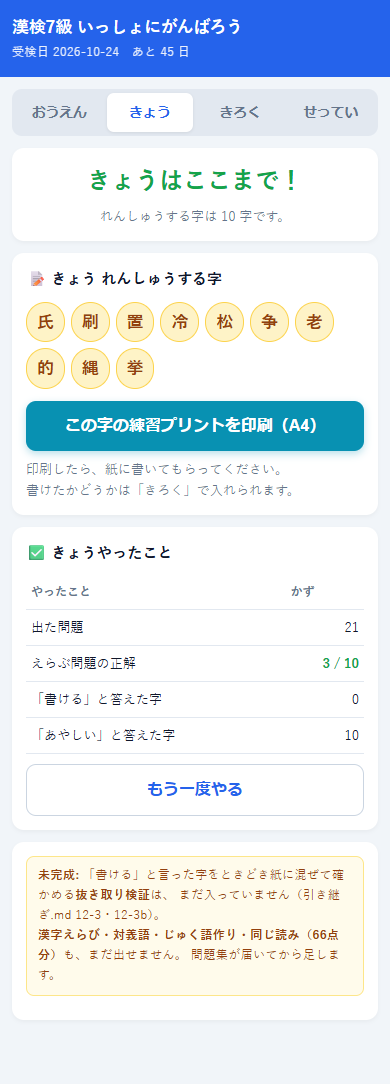
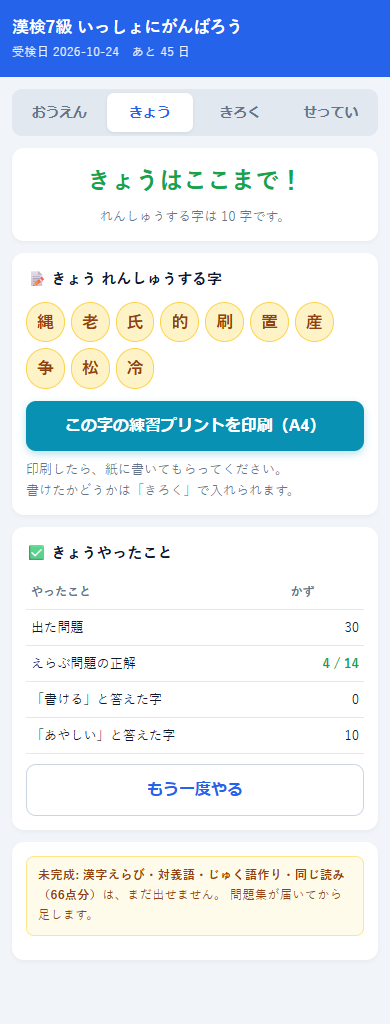
書きと選択式を前後に分け、まぐれ当たり対策と抜き取り検証を実装
- 前半＝選択式・後半＝書き。前半は「まちがい10個」か「20問」の早いほうで終わる
  （固定問題数にすると、できる字をやらせることになるため）
- 切りかえ画面をはさみ、「まちがえた字は、あしたもう一回出るよ」と予告する
- まぐれ当たり対策（引き継ぎ.md 12-1 の ⚠。仕様にあって未実装だった）:
  選択式は run>=2 で初めて「できた」。isOK と pickKanji の両方が見る
- 抜き取り検証（12-3・12-3b）: 「書ける」と申告した字を黙って紙に混ぜる
- 新PCで Edge / Chrome を使えるよう tools/browser.mjs に起動を共通化
- 練習プリントの読みをカッコで囲む（指示文と一致していなかった）

smoke-test 71件・全通過

Claude-Session: https://claude.ai/code/session_01KvmoCuNiHyZhgnSuYiRTRm

diff --git a/index.html b/index.html
@@ -198,9 +198,9 @@
       <div class="card">
         <h2>▶ きょうのぶん</h2>
         <div class="muted" style="margin-bottom:12px">
-          漢字が1つずつ出ます。<br>
-          <b>書けそうなら「書ける」、あやしければ「あやしい」</b>をおしてください。<br>
-          <b>「あやしい」が10こ たまったら、きょうはおしまいです。</b>
+          <b>まえはん</b>は、えらぶ問題です。おしたらすぐ〇✕が出ます。<br>
+          <b>こうはん</b>は、紙に書く分をえらびます。<br>
+          ぜんぶで <b>10分ぐらい</b>です。
         </div>
         <button class="btn" onclick="startSession()">はじめる</button>
         <div class="muted" style="margin-top:10px" id="ky-info"></div>
@@ -218,6 +218,23 @@
         <div class="ky-ask muted" id="ky-ask"></div>
         <div id="ky-choices"></div>
         <div class="ky-fb" id="ky-fb"></div>
+      </div>
+    </div>
+
+    <!-- 前半→後半の切りかえ。★頭の使い方が変わるので、一拍おく -->
+    <div id="ky-switch" style="display:none">
+      <div class="card" style="text-align:center">
+        <div style="font-size:1.3rem;font-weight:800;color:var(--good)">まえはん おわり！</div>
+        <div class="muted" id="ky-swsub" style="margin-top:6px"></div>
+      </div>
+      <div class="card">
+        <h2>✏ ここからは 紙に書く分をえらぶよ</h2>
+        <div class="muted" style="margin-bottom:12px">
+          漢字が1つずつ出ます。<br>
+          <b>書けそうなら「書ける」、あやしければ「あやしい」</b>をおしてください。<br>
+          <b>「あやしい」が10こ たまったら、きょうはおしまいです。</b>
+        </div>
+        <button class="btn" onclick="startWritePhase()">すすむ</button>
       </div>
     </div>
 
@@ -531,7 +548,10 @@ function startSession(force){
     SESSION.unsure=(SESSION.preUnsure||[]).slice();
     SESSION.know=[];        // 「書ける」と言った字
     SESSION.sel={o:0,x:0};  // 選択式の正誤
+    SESSION.phase="select"; // ★前半＝選択式、後半＝書き
     SESSION.done=false;
+    // 前半に出す問題が無ければ、いきなり後半から
+    if(SESSION.firstWrite<=0) SESSION.phase="write";
     save(K_SESSION,SESSION);
     // ★聞かずに入れた字だけで10字に達する日は、もう出す必要がない。
     //   量を増やさないのが 12-2 の設計なので、その場で終わりにする
@@ -547,31 +567,38 @@ function currentItem(){
 
 function renderKyou(){
   var start=document.getElementById("ky-start"), run=document.getElementById("ky-run"),
-      end=document.getElementById("ky-end");
+      end=document.getElementById("ky-end"), sw=document.getElementById("ky-switch");
   var live=SESSION && SESSION.date===todayStr();
+  function only(el){
+    [start,run,end,sw].forEach(function(e){ e.style.display=(e===el?"":"none"); });
+  }
 
   if(!live){
-    start.style.display=""; run.style.display="none"; end.style.display="none";
+    only(start);
     var left=KANJI_MASTER.filter(function(r){return !isOK(r.k);}).length;
     document.getElementById("ky-info").innerHTML=
       "受検日まで <b>あと "+daysLeft()+" 日</b>。まだ確かめていない字が <b>"+left+" 字</b>あります。";
     return;
   }
-  if(SESSION.done){
-    start.style.display="none"; run.style.display="none"; end.style.display="";
-    renderKyouEnd(); return;
-  }
-  start.style.display="none"; run.style.display=""; end.style.display="none";
+  if(SESSION.done){ only(end); renderKyouEnd(); return; }
+  if(SESSION.phase==="switch"){ only(sw); renderKyouSwitch(); return; }
+  only(run);
 
   var q=currentItem();
   if(!q){ finishSession(true); return; }
 
-  // 進み具合。★「あと何個」ではなく「たまった数」を出す（責めない見せ方）
+  // 進み具合。
+  // ★前半は「といた数」を出す。**「まちがえた N/10」とは出さない。**
+  //   まちがいを集める表示になり、責める画面になる（応援が要件）。
+  //   まちがいが10個で切り上がるのは、**早く終わるという形でだけ**表に出る。
+  // ★後半は「たまった数」。「あと何個」とは出さない（同じ理由）
+  var isSel=(SESSION.phase==="select"), s=SESSION.sel||{o:0,x:0};
+  var now  = isSel ? (s.o+s.x)              : SESSION.unsure.length;
+  var goal = isSel ? SESSION.selectLimit    : SESSION.unsureTarget;
   document.getElementById("ky-count").textContent=
-    "あやしい "+SESSION.unsure.length+" / "+SESSION.unsureTarget;
+    (isSel ? "といた " : "あやしい ")+now+" / "+goal;
   var dots="";
-  for(var i=0;i<SESSION.unsureTarget;i++)
-    dots+='<i class="'+(i<SESSION.unsure.length?"on":"")+'"></i>';
+  for(var i=0;i<goal;i++) dots+='<i class="'+(i<now?"on":"")+'"></i>';
   document.getElementById("ky-dots").innerHTML=dots;
 
   document.getElementById("ky-fb").textContent="";
@@ -655,9 +682,29 @@ function answerSelectVal(val){
   setTimeout(function(){ nextItem(false); }, ok?550:1500);
 }
 
+/* ★前半（選択式）の終わり。
+   「まちがえた字が10個」か「20問」か、**早いほう**（kanken-gen.js の SELECT_LIMIT / SELECT_MISS_TARGET）。 */
+function selectPhaseOver(){
+  var s=SESSION.sel||{o:0,x:0};
+  return (s.o+s.x)>=SESSION.selectLimit || s.x>=SESSION.selectMissTarget;
+}
+function toSwitch(){
+  SESSION.phase="switch";
+  SESSION.pos=SESSION.firstWrite;      // 前半を切り上げて、後半の先頭へ飛ぶ
+  save(K_SESSION,SESSION);
+  if(SESSION.pos>=SESSION.items.length){ finishSession(true); return; }
+  renderKyou();
+}
+function startWritePhase(){
+  SESSION.phase="write"; save(K_SESSION,SESSION); renderKyou();
+}
 function nextItem(finish){
   SESSION.pos++;
   if(finish || SESSION.pos>=SESSION.items.length){ finishSession(!finish); return; }
+  // 前半が終わったら、後半に入る前に一拍おく（頭の使い方が変わるため）
+  if(SESSION.phase==="select" && (selectPhaseOver() || SESSION.pos>=SESSION.firstWrite)){
+    toSwitch(); return;
+  }
   save(K_SESSION,SESSION);
   renderKyou();
 }
@@ -677,6 +724,19 @@ function finishSession(ranOut){
     .filter(function(v,i,a){return a.indexOf(v)===i;});
   save(K_SESSION,SESSION); save(K_SET,SET);
   renderAll();
+}
+
+/* 前半→後半の切りかえ画面。
+   ★ここで「まちがえた字は、あしたもう一回出るよ」と予告する。
+     わざと間違えれば前半を10問で終われてしまうが、**まちがえた字は翌日また出る**ので
+     損得が釣り合う（12-3 の抜け道対策と同じ形）。既に pickKanji が拾う実装は入っていて、
+     **見えていなかっただけ**なので、ここで見えるようにする。
+     責める文ではなく**予告**として書くこと。 */
+function renderKyouSwitch(){
+  var s=SESSION.sel||{o:0,x:0};
+  document.getElementById("ky-swsub").innerHTML=
+    "えらぶ問題を <b>"+(s.o+s.x)+" 問</b>やって、<b>"+s.o+" 問</b>せいかいしたよ。"
+    +(s.x ? "<br>まちがえた字は、あしたもう一回出るよ。" : "");
 }
 
 function renderKyouEnd(){

diff --git a/kanken-gen.js b/kanken-gen.js
@@ -310,6 +310,18 @@ function hashCode(s) {
    ========================================================================= */
 var SELECT_FIELDS = ["kakusu", "bushu", "onkun"];
 
+/* ★前半（選択式）の終わり方（2026-09-09 決定）。
+   「まちがえた字が10個」か「20問」か、**早いほう**で終わる。
+
+   ・問題数だけで区切らない … 固定20問にすると **できる字を20問やらせる**ことになる。
+     12-2 で「1日1枚固定」を捨てたのと同じ理由。
+   ・間違いの数だけでも区切れない … 間違いは**押して選べない**ので、
+     できる日はいつまでも終わらない。上限が要る。
+   ・数を後半（あやしい10個）とそろえてある。**子どもが覚えるルールは1つだけ**になる。
+   ・20問の根拠: 1問≒10秒（フィードバック込み）で3〜4分。
+     後半は1問≒5秒で2〜3分。**合わせて10分に収まる。** */
+var SELECT_LIMIT = 20, SELECT_MISS_TARGET = 10;
+
 /* ★選択式（4択）かどうか。まぐれ当たり対策の判定に使う（引き継ぎ.md 12-1 の ⚠）。
    書く形式（kaki・yomi）は当てずっぽうで当たらないので、この扱いをしない。 */
 function isSelectField(f) { return SELECT_FIELDS.indexOf(f) >= 0; }
@@ -344,32 +356,54 @@ function buildSession(opts) {
   writeK.forEach(function (r) { used[r.k] = 1; });
 
   // 選択式の候補。書き取りに使う字は避ける
-  var selItems = [];
+  // ★★この除外は絶対に外さないこと（確認ポイント A-1）。
+  //   練習プリントは **字とその読みを印刷する**（`氏（シ・うじ）`）ので、
+  //   前半で「氏の音読みは？」と聞いた字が後半経由で紙に載ると、
+  //   **答えがそのまま紙に印刷される。**前後に分けたあとも同じ。
+  var selItems = [], byField = [];
   SELECT_FIELDS.forEach(function (f) {
+    var one = [];
     pickKanji(f, kstats, opts.selPool || 30, rnd, opts.grades, used).forEach(function (r) {
       var q = GENERATORS[f](r.k, rnd, used);
-      if (q) { selItems.push(q); used[r.k] = 1; }
+      if (q) { one.push(q); used[r.k] = 1; }
     });
+    byField.push(one);
   });
-  selItems = shuffle(selItems, rnd);
+  // ★形式ごとに順ぐりに取る（1形式に偏らせない）。
+  //   画数10・音訓20・部首20＝50点は規則的で短時間で伸びる（引き継ぎ.md 6章）。
+  //   ここで偏らせると、コスパの高い分野がまるごと育たない日が出る。
+  selItems = roundRobin(byField, rnd).slice(0, opts.selectLimit || SELECT_LIMIT);
 
   var writeItems = [];
   writeK.forEach(function (r) { var q = genKaki(r.k, rnd); if (q) writeItems.push(q); });
 
-  // 書き取りと選択式を交互に。書き取りだけが続くと単調になる
-  var items = [];
-  for (var i = 0; i < Math.max(writeItems.length, selItems.length); i++) {
-    if (writeItems[i]) items.push(writeItems[i]);
-    if (selItems[i]) items.push(selItems[i]);
-  }
+  // ★前半＝選択式、後半＝書き（2026-09-09 の設計変更）。
+  //   もとは交互だったが、次の理由で分けた。
+  //   ・頭の使い方が違う（選択式＝知識で選ぶ／書き＝自分は書けるかの自己評価）
+  //   ・**終わりの基準が書きにしか無く、選択式が「おまけ」になっていた**（120点分あるのに）
+  //   ・選択式はその場で〇✕が出る。**先にすると「今日もできた」で始められる**（ユーザー判断）
+  //   前任が交互にした理由は「書きだけ続くと単調」だが、
+  //   **選択式が速いので前半がテンポよく流れ、単調さは起きない**と判断した。
+  var items = selItems.concat(writeItems);
   items.forEach(function (q, i) { q.no = i + 1; });
 
   return {
     date: opts.dayKey,
     unsureTarget: opts.unsureTarget || 10,
+    selectLimit: opts.selectLimit || SELECT_LIMIT,
+    selectMissTarget: opts.selectMissTarget || SELECT_MISS_TARGET,
+    firstWrite: selItems.length,   // ここから後半（書き）。前半を切り上げたらここへ飛ぶ
     items: items,
-    preUnsure: mustWrite        // 聞かずに最初から「あやしい」に入れる字
+    preUnsure: mustWrite           // 聞かずに最初から「あやしい」に入れる字
   };
+}
+
+/* 形式ごとのリストから順ぐりに1つずつ取る（部首→画数→音訓→部首→…） */
+function roundRobin(lists, rnd) {
+  var out = [], n = 0, i;
+  lists.forEach(function (l) { if (l.length > n) n = l.length; });
+  for (i = 0; i < n; i++) lists.forEach(function (l) { if (l[i]) out.push(l[i]); });
+  return out;
 }
 
 /* ---------- 抜き取り検証（引き継ぎ.md 12-3・12-3b） ----------

diff --git a/作業メモ.md b/作業メモ.md
@@ -550,3 +550,88 @@ playwright はグローバル導入ぶんを自動で探す。パスに日本語
   `SELECT_FIELDS` は画数・部首・音訓の**50点分だけ**。`genYomi` は選択肢を持たない書く形式
 - 同じ字を前半と後半の両方に出さない不変条件は**分割後こそ重要**
   （練習プリントは字と読みを印刷するので、前半の音訓問題の答えが紙に載る）
+
+### ひと区切り④: まぐれ当たり対策（12-1 の ⚠）を実装した ★司令塔が最優先と判断
+
+**仕様に書いてあるのに、実装されていなかった**箇所。
+`isOK()` が「どれか1形式で1回〇なら できた」にしていたため、
+**まぐれ当たりした字が出題から消え、その字の正答率が 1.0 のまま固定**されていた。
+→ ✕ が二度と積まれないので、**予想得点が上振れし続ける。**
+
+| 追加したもの | 中身 |
+|---|---|
+| `KSTATS[字][形式].run` | いま何回続けて正解しているか（正解で+1・まちがいで0）。**追加フィールドなのでid体系は不変**（C-5） |
+| `isSelectField(f)` | 4択かどうか（kakusu・bushu・onkun） |
+| `fieldDone(s,f)` | **選択式は `run>=2` で初めて「できた」。**書く形式は1回でよい |
+| `isOK()` / `pickKanji()` | 両方が `fieldDone` を見る |
+
+**★`estimate()` の式は変えていない。** `o/(o+x)` のまま。
+本番の(三)(五)(八)(十)は**実際に記号選択**なので、まぐれ当たり分は本番でも取れる。
+上振れの原因は式ではなく **「できた字が出題から消えて正答率が更新されなくなること」**だった。
+
+**⚠ 別件が残っている**: 総画数は**本番では数字を書く**が、このアプリは4択。
+**(四)の10点分は実力より高く出る。**未対応。`引き継ぎ.md` 12-1 に書いた。
+
+#### テストの書き方で1つ学んだ
+最初「1回正解しただけの字は、まだ出題される」と書いて**落ちた。**
+642字のほとんどが手つかずなので、**ある1日に必ず出るとは限らない**（出たら偶然）。
+確かめたいのは「**できた字と同じ最後尾に回されていないこと**」だったので、
+**ほかを全部「2回続けて正解ずみ」にして、その字が拾われるか**を見る形に変えた。
+→ **「たぶん出るはず」を条件にしない。**その日のデータで必ず決まる形にする（C-8b）。
+
+### 検証
+`node tools/smoke-test.mjs` … **62件・全通過**（msedge）。`test_gen.js` も全通過。
+`引き継ぎ.md` 12-1 に「長らく未実装だった」経緯と、いまの実装・残った別件を追記。
+
+### ひと区切り⑤: 書きと選択式を前後に分けた（2026-09-09・司令塔経由でユーザー判断）
+
+**前半＝選択式（画面で完結）→ 後半＝書きの判定。** 順番はユーザーが決めた
+（「サクサク進んで**今日もできた**で始められる。ウォームアップになる」）。
+
+#### なぜ分けたか（★消さないこと。知らないと交互に戻す）
+- 頭の使い方が違う（選択式＝知識で選ぶ／書き＝**自分は書けるか**の自己評価）
+- **終わりの基準が書きにしか無く、選択式が「おまけ」になっていた。**200点中120点分あるのに
+- 選択式はその場で〇✕が出る。**先にすると成功体験で始められる**
+- 前任が交互にした理由は「書きだけ続くと単調」だが、**選択式が速いので前半がテンポよく流れる**
+
+#### 前半の終わり方: **「まちがえた字10個」か「20問」か、早いほう**
+- **問題数だけで区切らない** … 固定20問は**できる字を20問やらせる**ことになる（12-2 と同じ理由）
+- **間違いの数だけでも区切れない** … 間違いは**押して選べない**ので、できる日は終わらない
+- **後半の10個と数をそろえた。**子どもが覚えるルールは「10個見つけたら終わり」の1つだけ
+- 20問の根拠: 1問≒10秒で3〜4分／後半は1問≒5秒で2〜3分 → **合わせて10分に収まる**
+
+#### ★画面の見せ方（応援が要件）
+- **前半は「といた 5 / 20」を出す。「まちがえた 5 / 10」とは出さない。**
+  まちがいを集める表示になり、責める画面になる。
+  **まちがいが10個で切り上がるのは「早く終わる」という形でだけ表に出る**
+- **切りかえ画面**（`#ky-switch`）を1枚はさむ。頭の使い方が変わるので一拍おく
+- 切りかえ画面に「**まちがえた字は、あしたもう一回出るよ**」と**予告**する
+  - わざと間違えれば前半を10問で終われるが、**翌日また出る**ので損得が釣り合う
+  - `pickKanji` が拾う実装は**もともと入っていて、見えていなかっただけ**
+
+#### ★A-1 の除外は絶対に外さないこと
+練習プリントは**字とその読みを印刷する**（`氏（シ・うじ）`）ので、
+前半で「氏の音読みは？」と聞いた字が後半経由で紙に載ると、**答えが紙に印刷される。**
+`buildSession` の `used{}` で防いでいる。**テストで固定した**（司令塔の指示）。
+
+#### そのほか
+- 前半は**形式ごとに順ぐり**に取る（`roundRobin`）。1形式に偏らせない
+  （画数10・音訓20・部首20＝50点は短時間で伸びる。引き継ぎ.md 6章）
+- `SESSION.phase` = `select` / `switch` / `write`。`firstWrite` で後半の先頭に飛ぶ
+
+### 検証
+`node tools/smoke-test.mjs` … **71件・全通過**（msedge）。`test_gen.js` も全通過。
+新しい検査: 切りかえ画面を通る／前半は選択式だけ／後半は書きだけ／前半が1形式に偏らない／
+**前半で聞いた字が後半に出てこない（A-1）**／**まちがい10個でも切り上がる**／予告の文言。
+`tools/shot_kyou_switch.png` を追加。**前半・切りかえ・後半の3枚を目視確認済み。**
+
+#### テストで直した2件（どちらも「名前と中身がずれていた」）
+1. 「できている字が次の日に出てこない」のテストデータが `{o:3,x:0}` で **`run` が無かった。**
+   選択式は `run>=2` で初めて「できた」なので、**できた字を作ったつもりで作れていなかった**
+2. リロードの検査が `SESSION.done===true` の**決め打ち**だった。
+   → **リロードの前後で状態が変わらないこと**を見る形に変更（C-8b）
+
+### 司令塔に上げたいこと（次の連絡で聞く）
+- **総画数は5択（8〜12画のような連番）**だった。4択ではない。当てずっぽうは20%
+- 切りかえ画面の「**えらぶ問題を14問やって、4問せいかいしたよ**」は、
+  **できなかった日に少しきつい**かもしれない。文言はお子さんを見ているユーザーの判断が要る

diff --git a/引き継ぎ.md b/引き継ぎ.md
@@ -355,6 +355,26 @@ GitHub Pages の同一オリジンで共有されても衝突しない。
 ⚠ **4択はまぐれで当たります（25%）。** 選択式は**2回連続で正解するまで「できた」にしない**こと。
 しないと予想得点が実力より高く出ます。
 
+> **★2026-09-09 追記（後任 `claude-27`）: これは長らく「書いてあるだけで、実装されていませんでした」。**
+> `isOK()` が **どれか1形式で1回〇なら「できた」** にしてしまい、`pickKanji` が
+> その字を最後尾に回すので、**まぐれ当たりした字は二度と出てきませんでした。**
+> 出てこない＝ ✕ が積まれないので、**その字の正答率が 1.0 のまま固定され、予想得点が上振れし続けます。**
+>
+> **いまは実装済みです。**
+> - `KSTATS[字][形式].run` … いま何回続けて正解しているか（正解で +1、まちがいで 0）
+> - `fieldDone(s, f)`（kanken-gen.js）… **選択式は `run>=2` で初めて「できた」。**
+>   書く形式（kaki・yomi）は当てずっぽうで当たらないので1回でよい
+> - `isOK()` と `pickKanji()` の両方がこれを見ます
+> - テスト7件（`smoke-test.mjs`「まぐれ当たり対策」）で固定してあります
+>
+> **★`estimate()` の式は変えていません。** `o/(o+x)` のままです。
+> 本番の(三)(五)(八)(十)は**実際に記号選択**なので、まぐれ当たりの分は本番でも取れます。
+> 上振れの原因は式ではなく、**「できた字が出題から消えて、正答率が更新されなくなること」**でした。
+> そこを直したので、式はそのままで正しく収束します。
+>
+> ⚠ **ただし別件が残っています。** 総画数は**本番では数字を書く**形式ですが、
+> このアプリでは4択で出しています。**(四)の10点分は、実力より高く出ます。**未対応。
+
 ### 12-2. ★「1日1枚固定」をやめる。「わからない字を10個見つけたら終わり」にする
 
 **ユーザーの指摘がきっかけです。**
